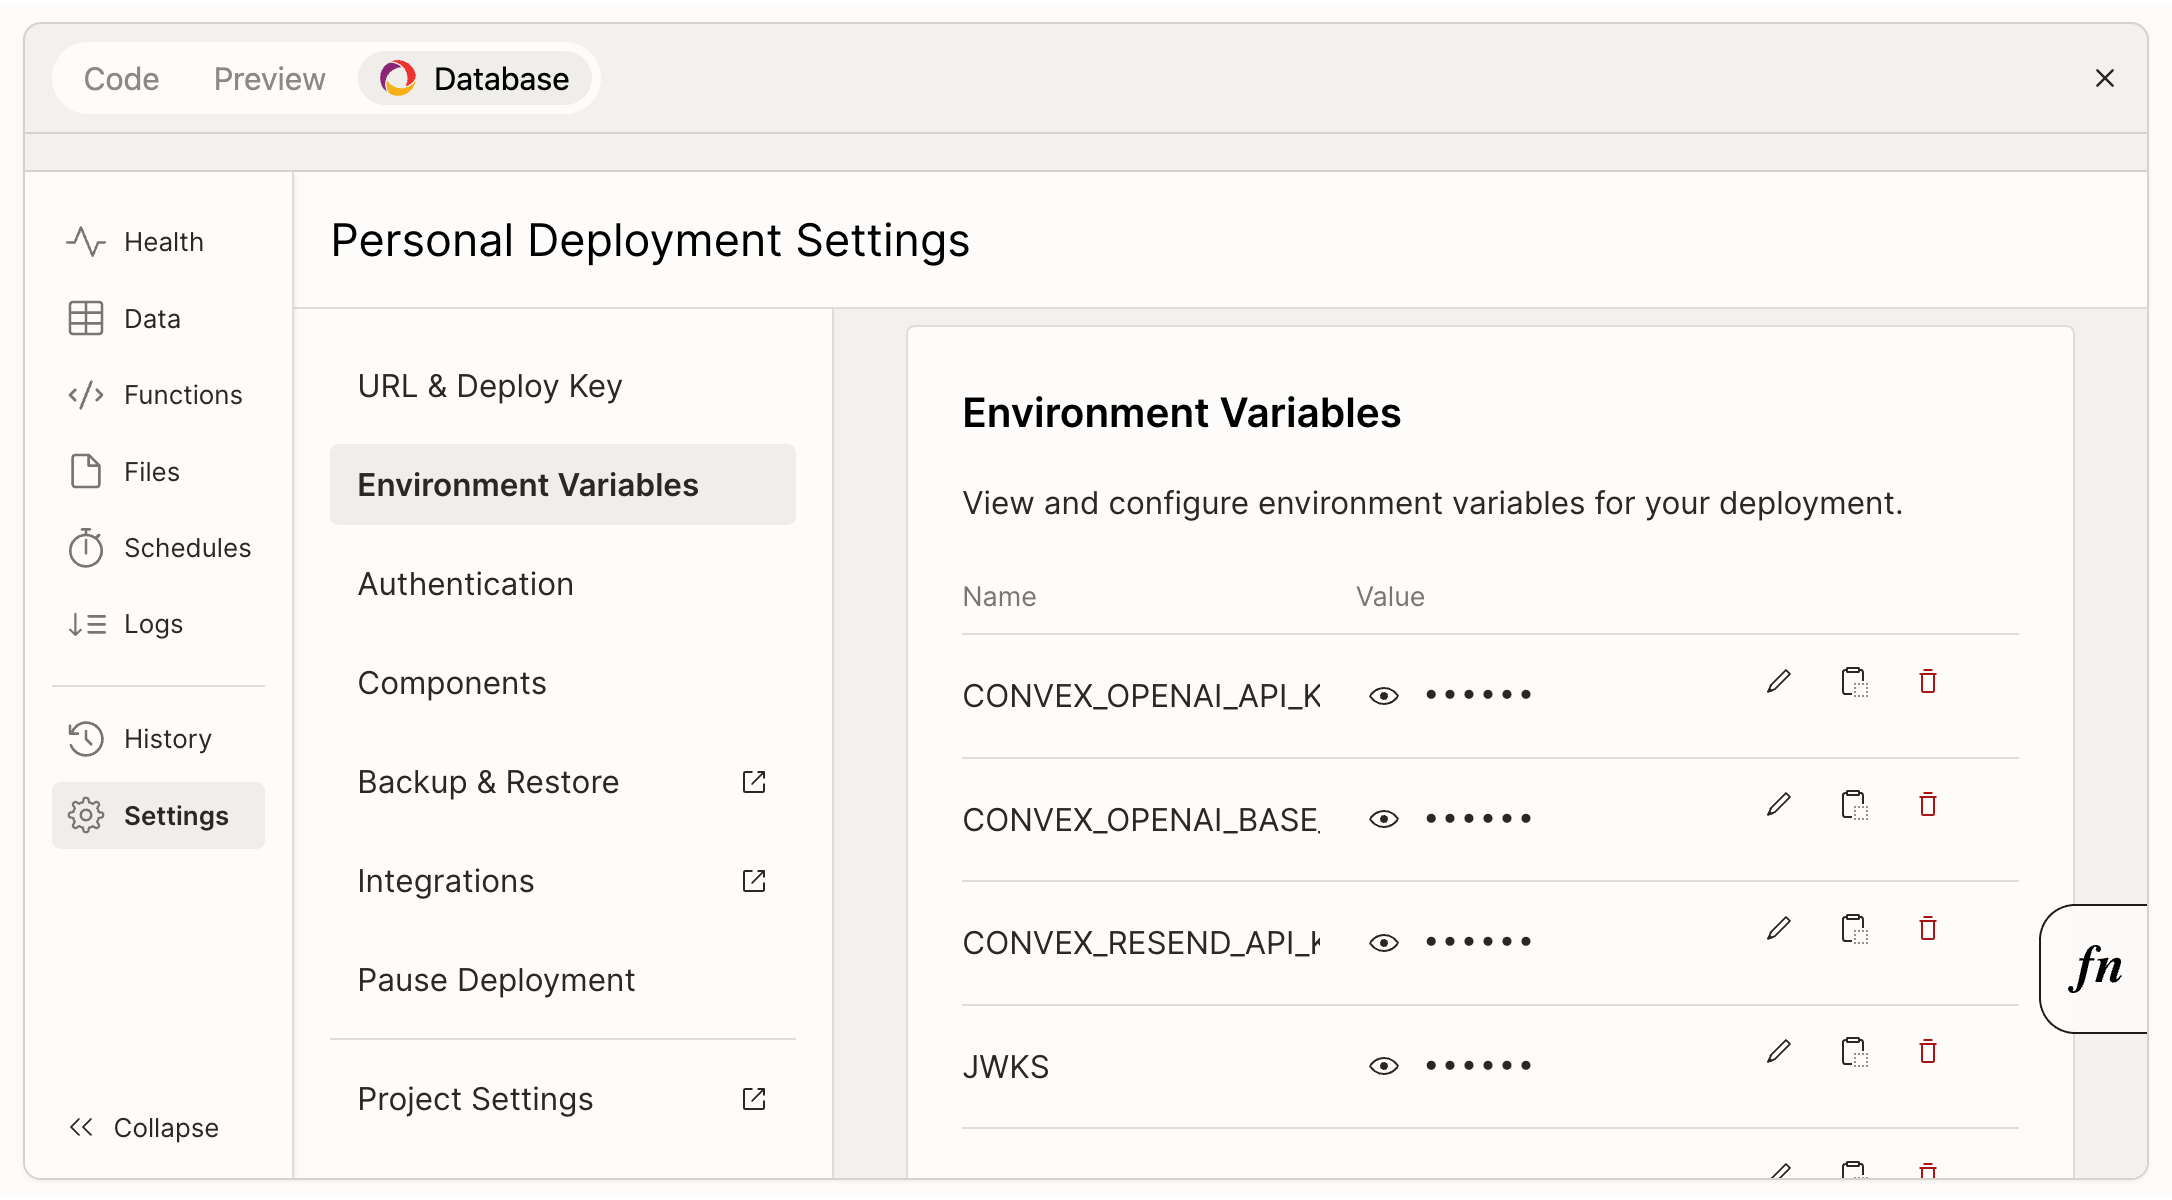
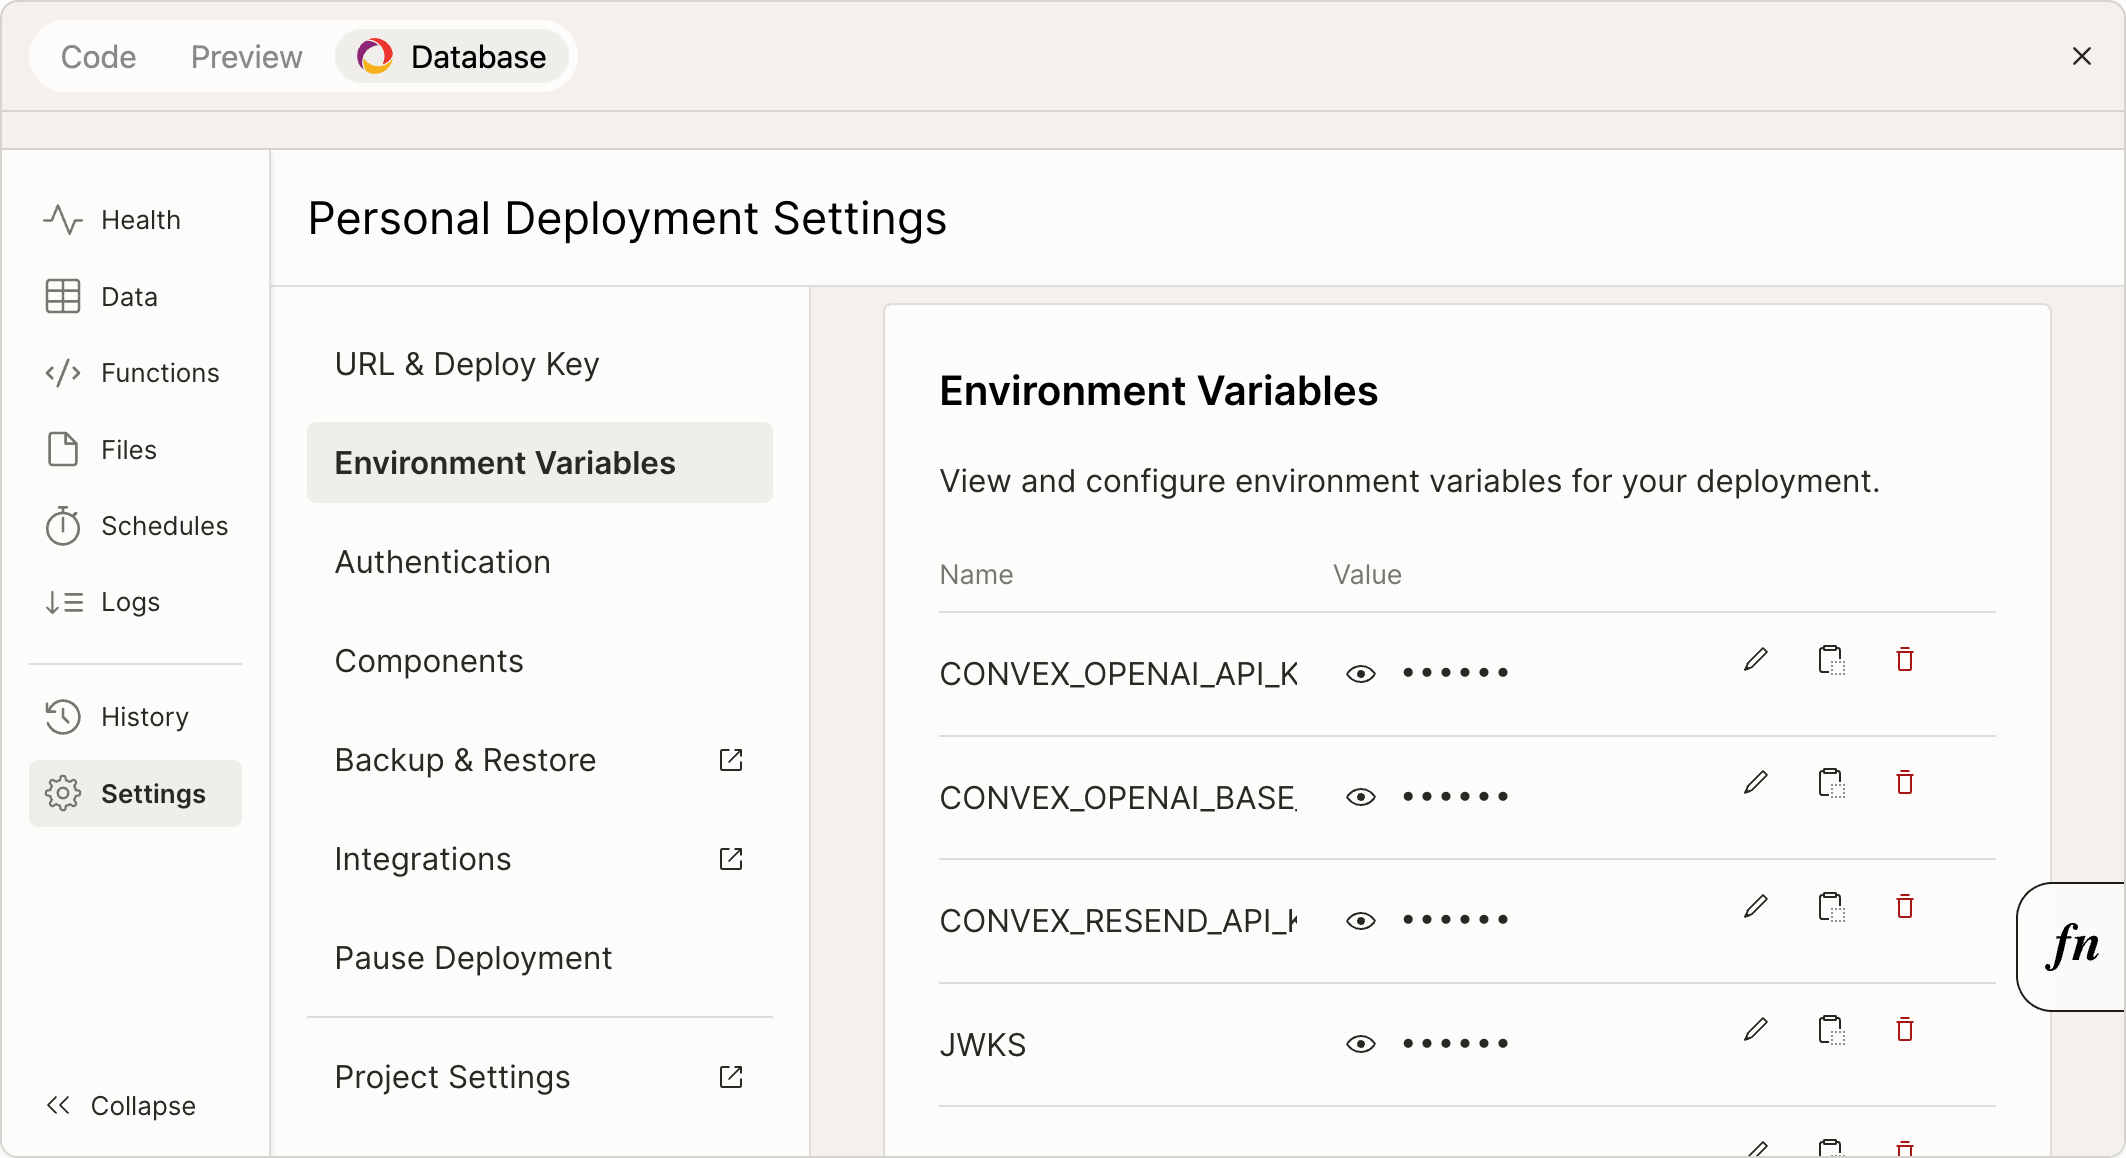
Fix layout shift when going to different tabs

diff --git a/app/components/landing/Dashboard.tsx b/app/components/landing/Dashboard.tsx
@@ -88,8 +88,8 @@ export default function Dashboard() {
           <img
             src={dashboardFeatures[activeFeature].imageUrl}
             alt={`${dashboardFeatures[activeFeature].title} screenshot`}
-            width={2172}
-            height={1200}
+            width={2126}
+            height={1158}
           />
         </div>
       </div>
